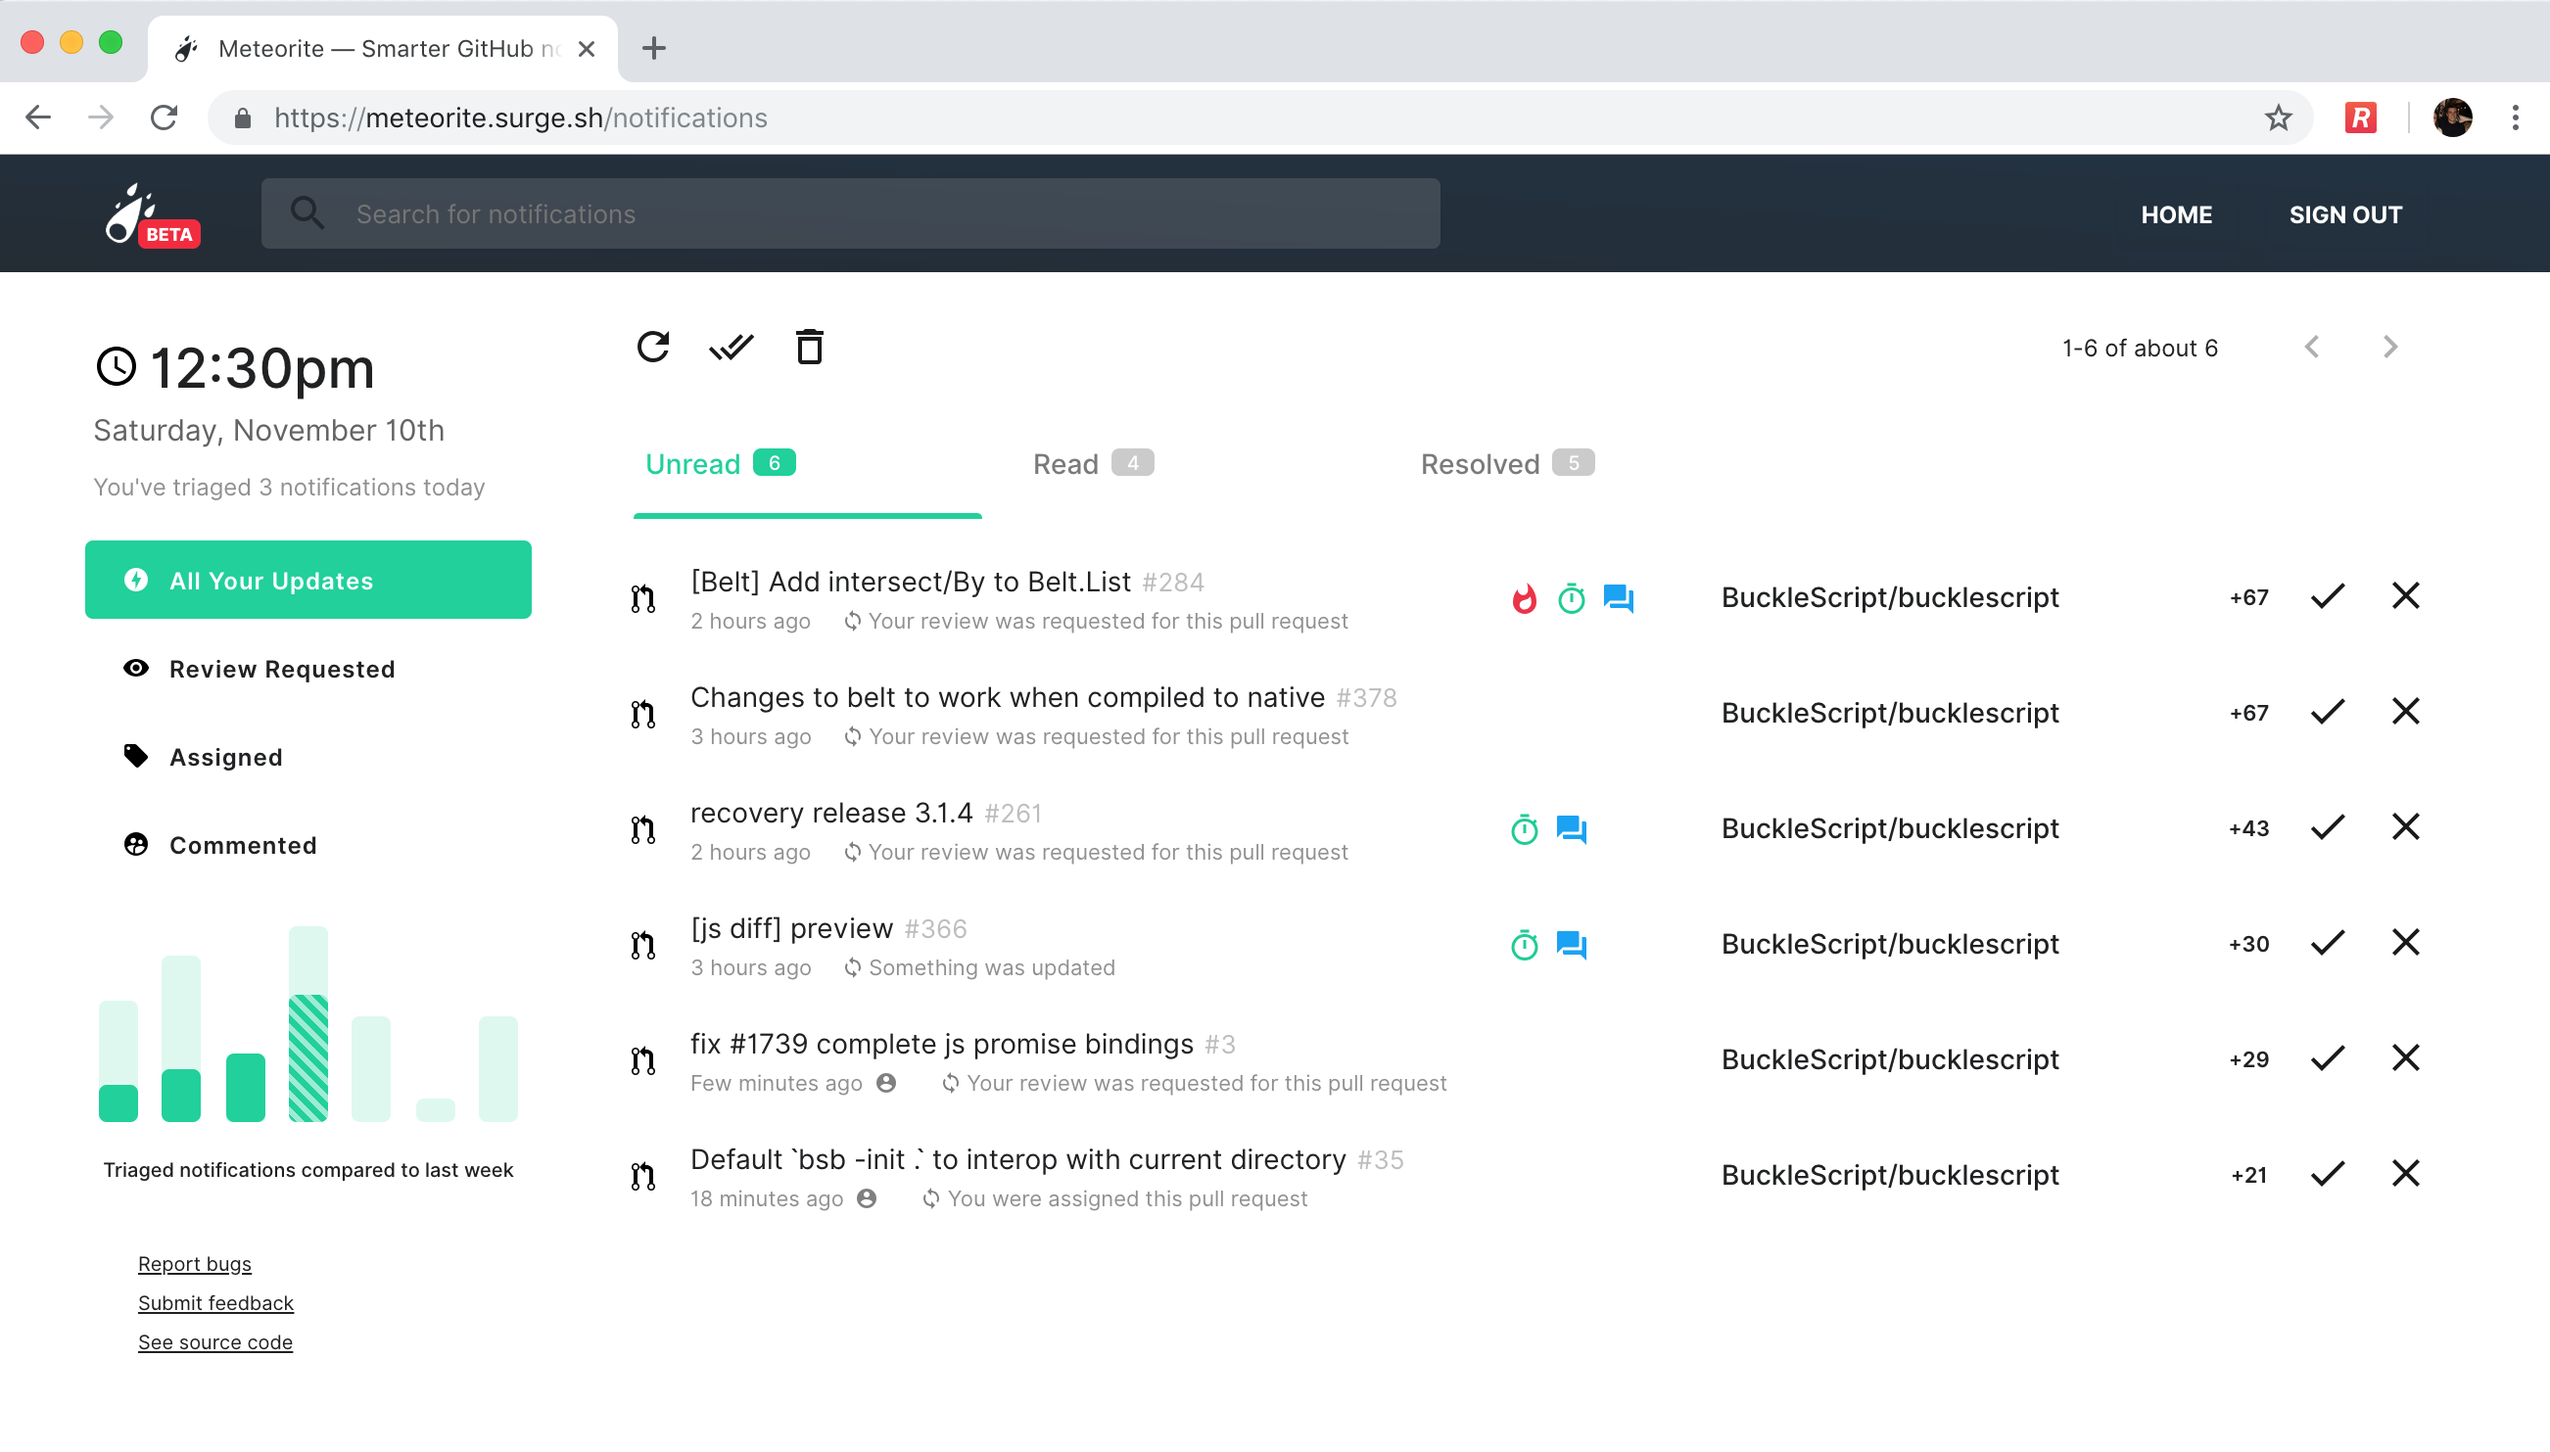
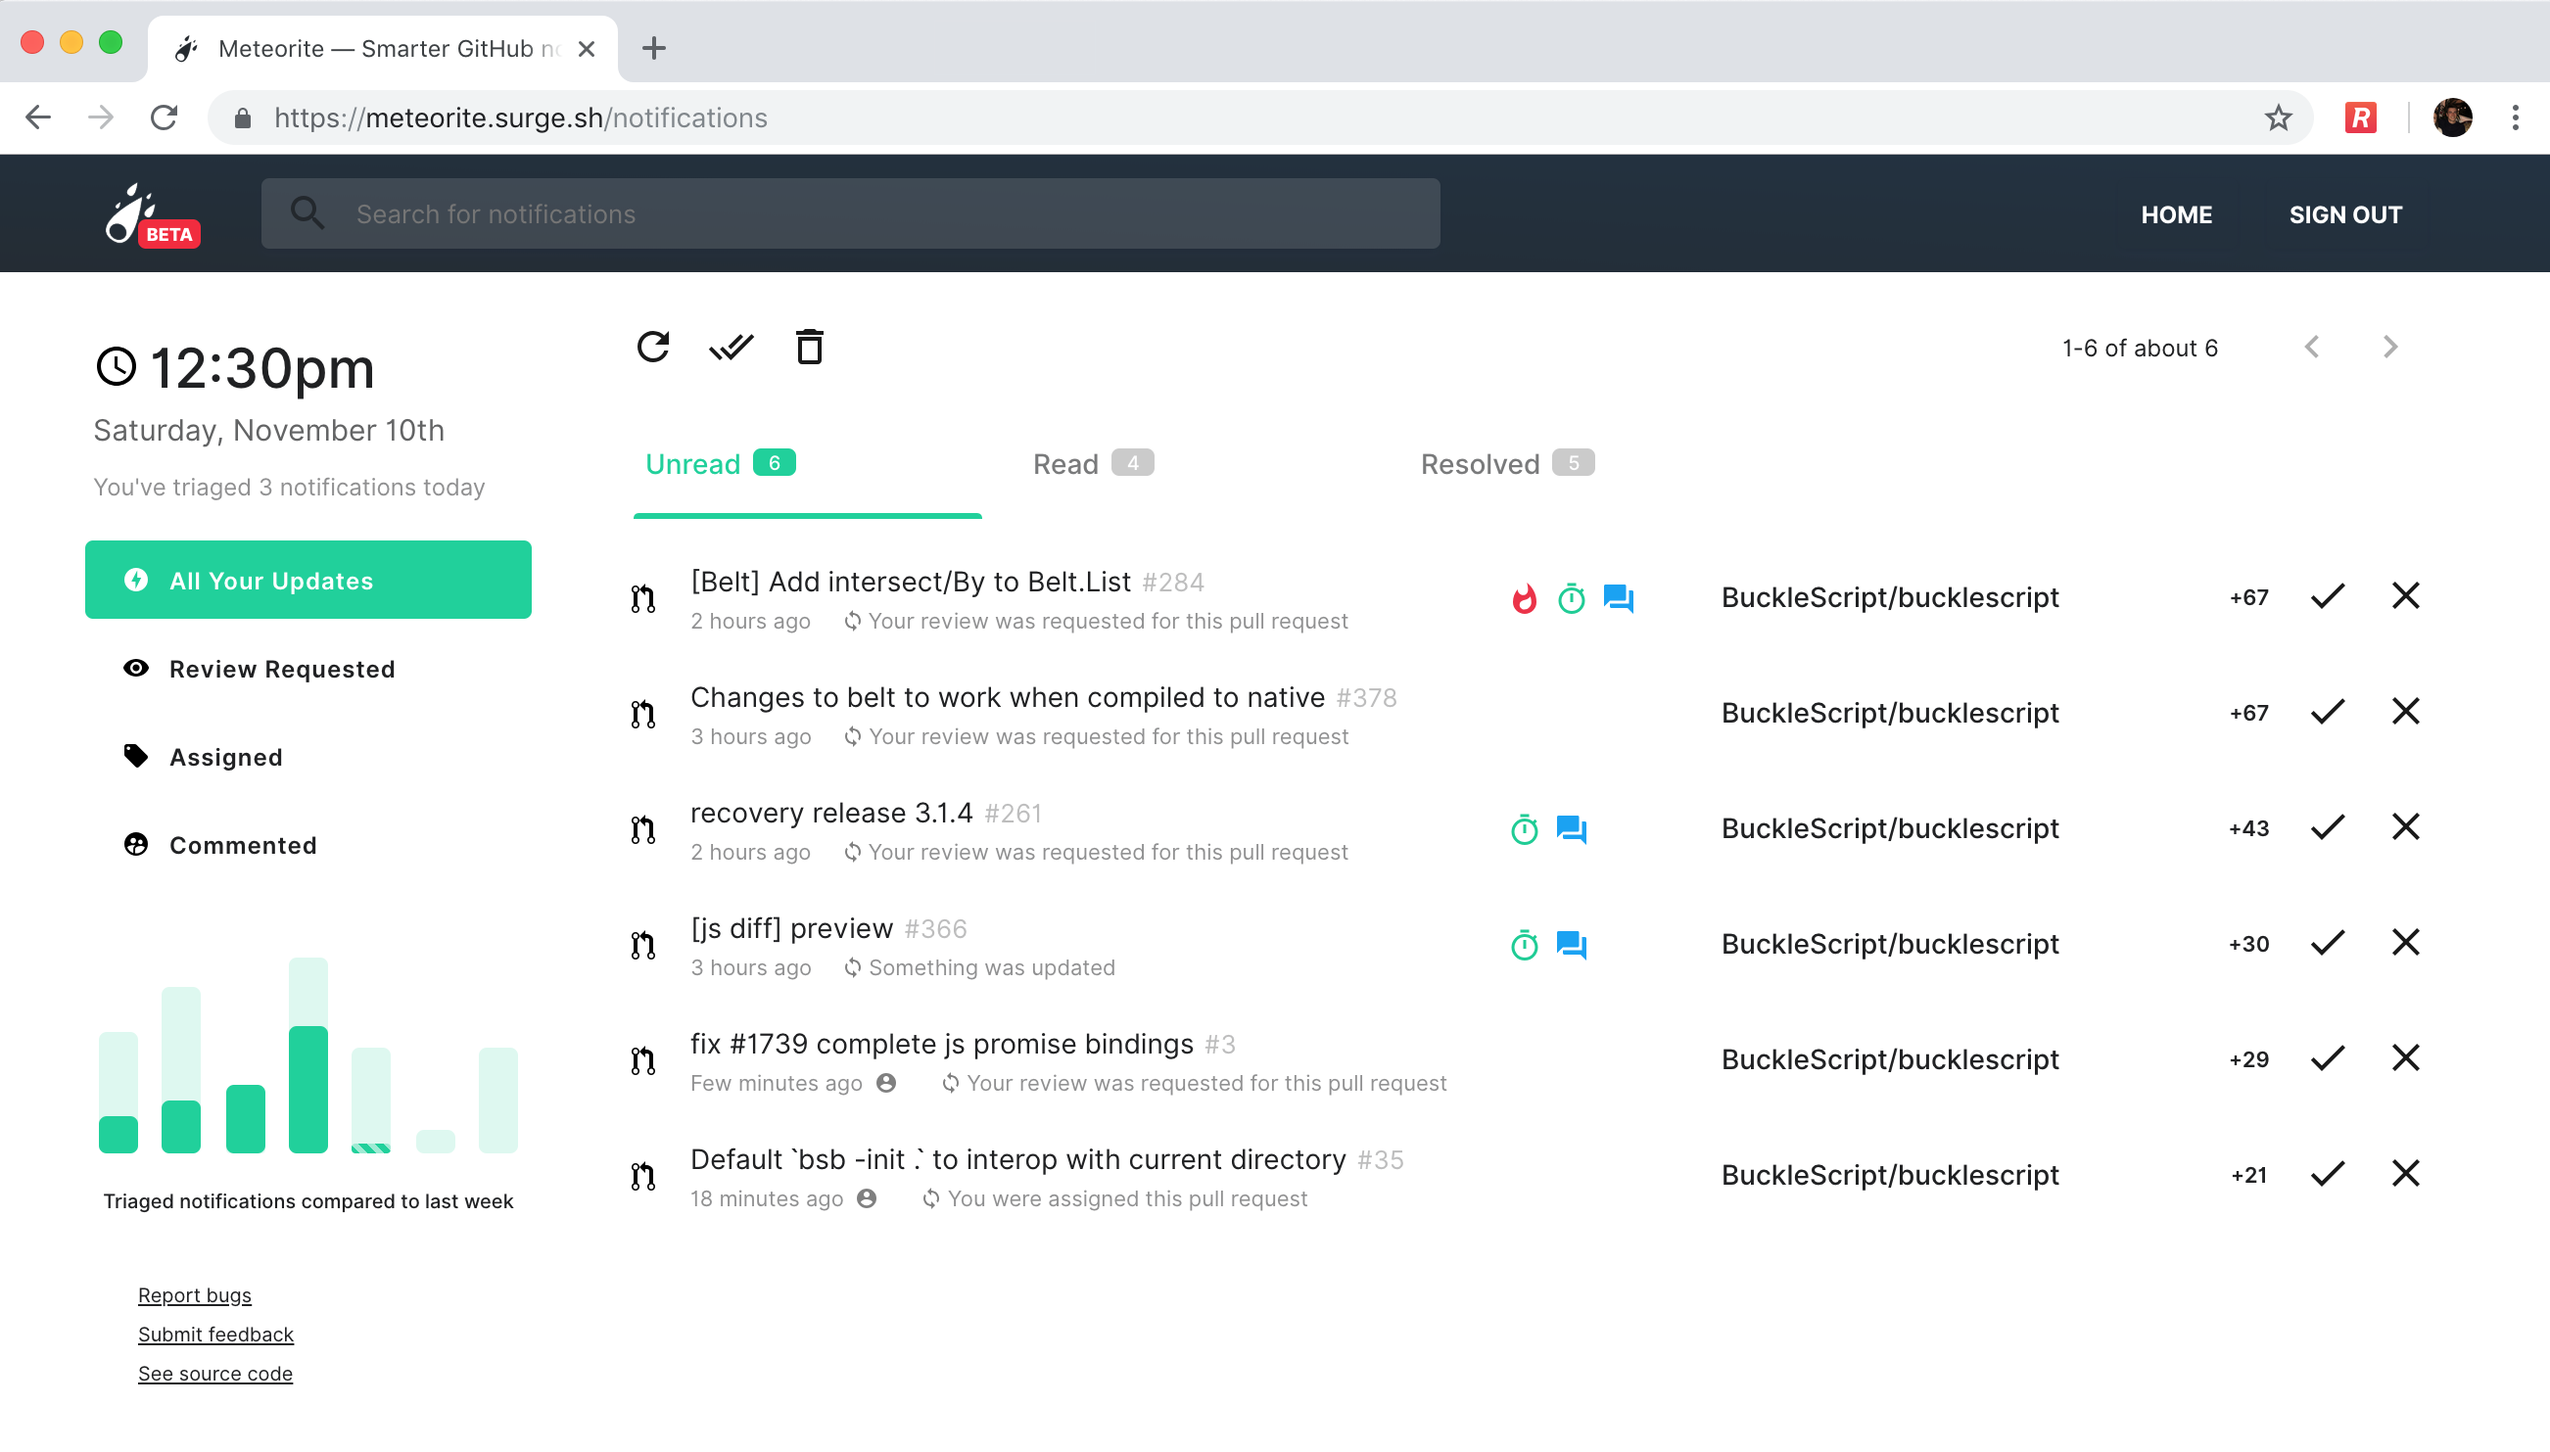
Tweak chart and tooltip positioning

diff --git a/src/pages/Notifications/Scene.js b/src/pages/Notifications/Scene.js
@@ -518,6 +518,7 @@ const BarContainer = styled('div')({
 
 const stripe_size = 3;
 const Bar = styled('div')({
+  cursor: 'pointer',
   position: 'relative',
   width: 20,
   minHeight: 5,
@@ -758,11 +759,10 @@ export default function Scene ({
               </EnhancedSidebarLink>
               <div style={{
                 padding: 14,
-                margin: 8,
                 borderRadius: 4,
                 height: 100,
                 fontSize: 11,
-                marginBottom: 20,
+                margin: '24px 8px 20px'
               }}>
                 <BarGraph>
                   {/* Last week's statistics */}
@@ -793,8 +793,10 @@ export default function Scene ({
                     {lastWeekStats.map((_, i) => (
                       <EnhancedBar
                         key={i}
+                        style={{width: 33}}
                         tooltip={getWeekday(i)}
-                        tooltipOffsetY={50}
+                        tooltipOffsetY={-15}
+                        tooltipOffsetX={5}
                         tooltipSpeed={0}
                         height={100}
                       />

diff --git a/src/styles/index.css b/src/styles/index.css
@@ -91,5 +91,5 @@ p {
   white-space: nowrap;
   transform: translateX(-35%) translateY(-15px);
   opacity: 0;
-  transition: all 100ms ease-in;
+  transition: all 75ms ease-in;
 }
